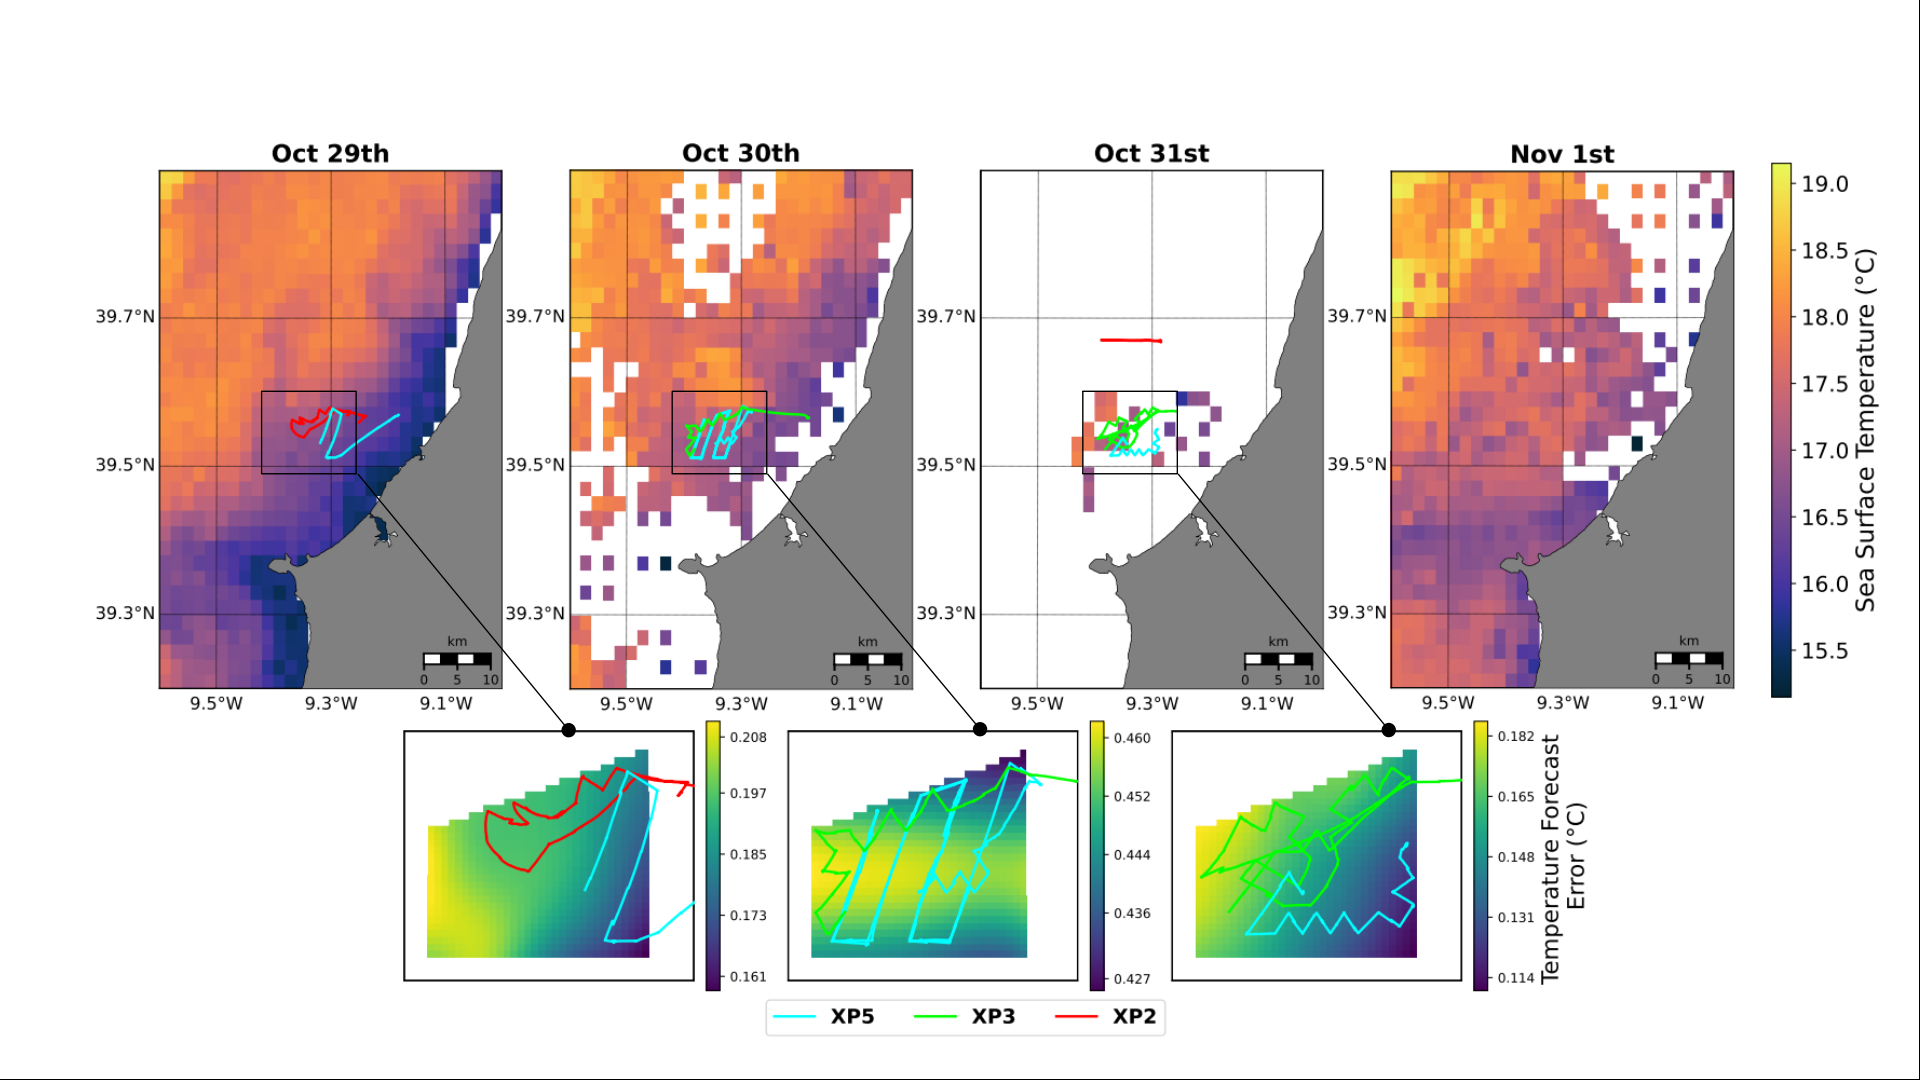
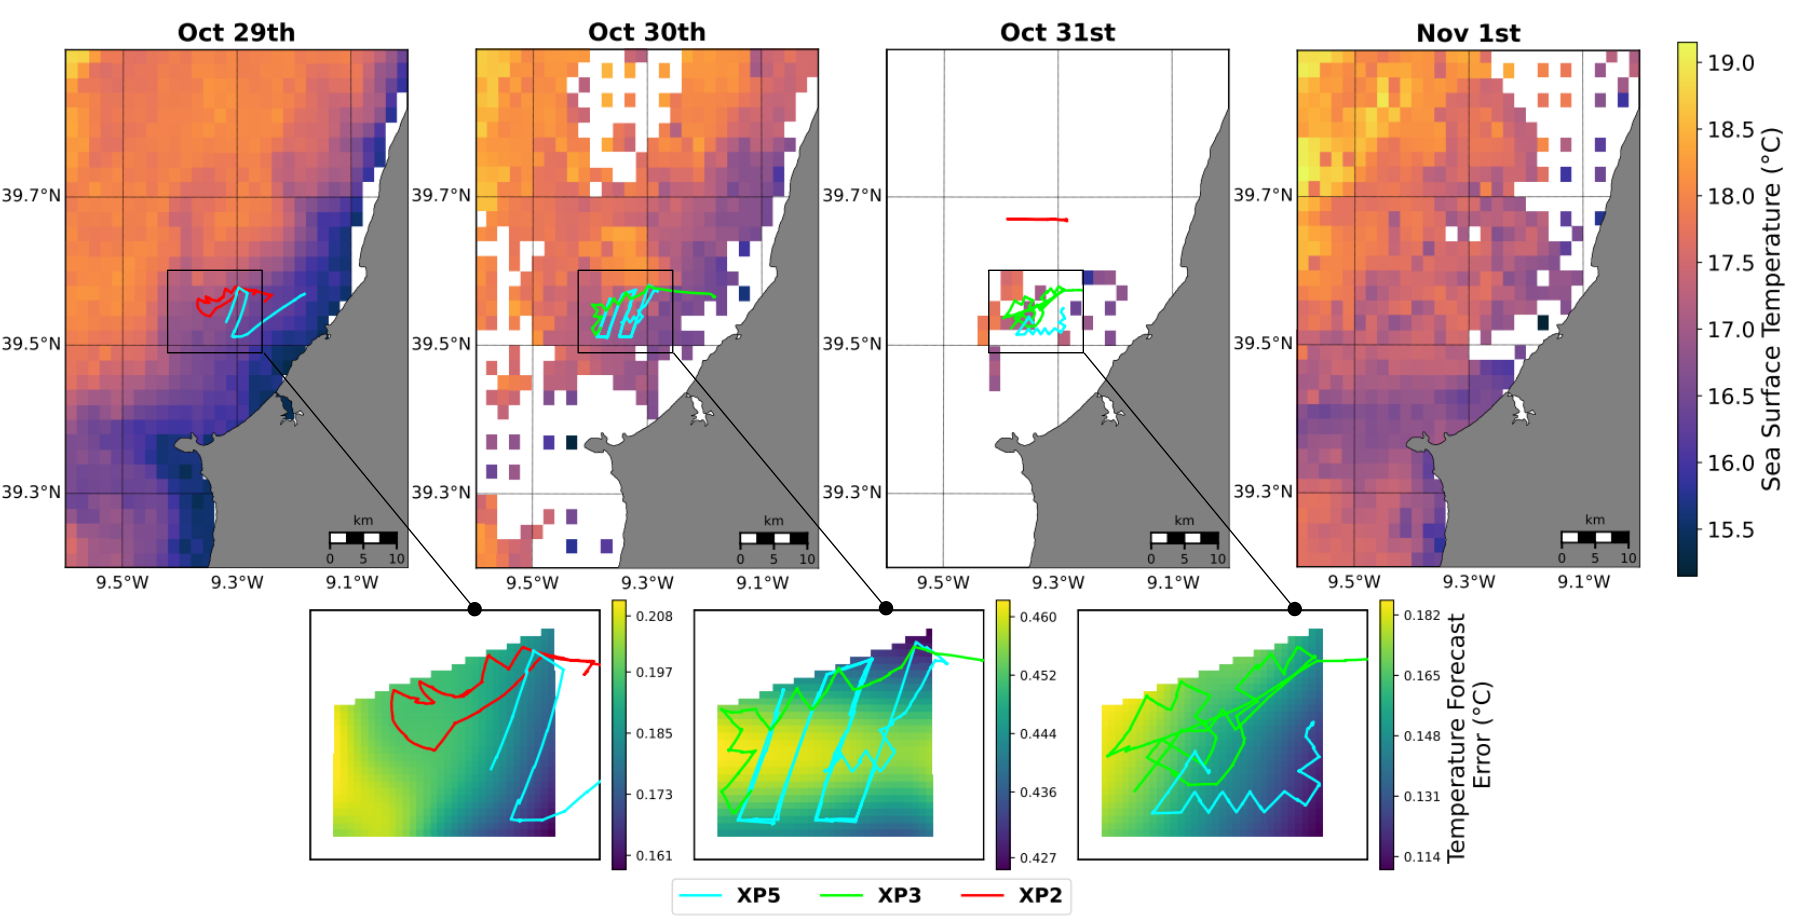
Updates from Overleaf

diff --git a/results.tex b/results.tex
@@ -38,13 +38,13 @@ visible.
 \begin{figure}
   \centering 
   \subfigure[]
-  {\label{fig:sst}\includegraphics[width=1\linewidth]{fig/SST_Uncertainty_trajectories.pdf}}
+  {\label{fig:sst}\includegraphics[width=1\linewidth]{fig/SST_Uncertainty.png}}
   \subfigure[]
   {\label{fig:temperatureprofiles}\includegraphics[width=1\linewidth]{fig/Figure2_100m_zoom2.pdf}}
   \caption{{\subref{fig:sst} Sea surface temperature (SST) and AUV
       trajectories during the \proj experiment
       (29\textsuperscript{th}-–31\textsuperscript{st}
-      October). \subref{fig:temperatureprofiles} Time–-depth
+      October) \rone{, overlaid on the statistical-model uncertainty field.}. \subref{fig:temperatureprofiles} Time–-depth
       temperature evolution observed by AUVs in the same period.}}
 \end{figure}
 
